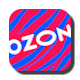
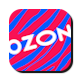
Обновление иконок

Changed region(s): [[0.2, 0.2, 0.95, 0.95], [0.85, 0.175, 0.875, 0.2], [0.175, 0.85, 0.2, 0.875]]

diff --git a/media/stylesheet/Notes.md b/media/stylesheet/Notes.md
@@ -1,0 +1,14 @@
+# Заметки по работе с картинками
+
++ Иконки API
+    + В Readme
+        + Полотно 80x80 из 64x64 изображения
+        + Тени
+            + Радиус 0
+            + Растояние 3
+            + Непрозрачность 0,9
+
+            ![alt text]({3B79813B-86A7-4C1D-BF60-9F66494BC8D6}.png)
+    + В документации
+        + Большая 64x64
+        + Маленькая (сайдбар) 24x24
